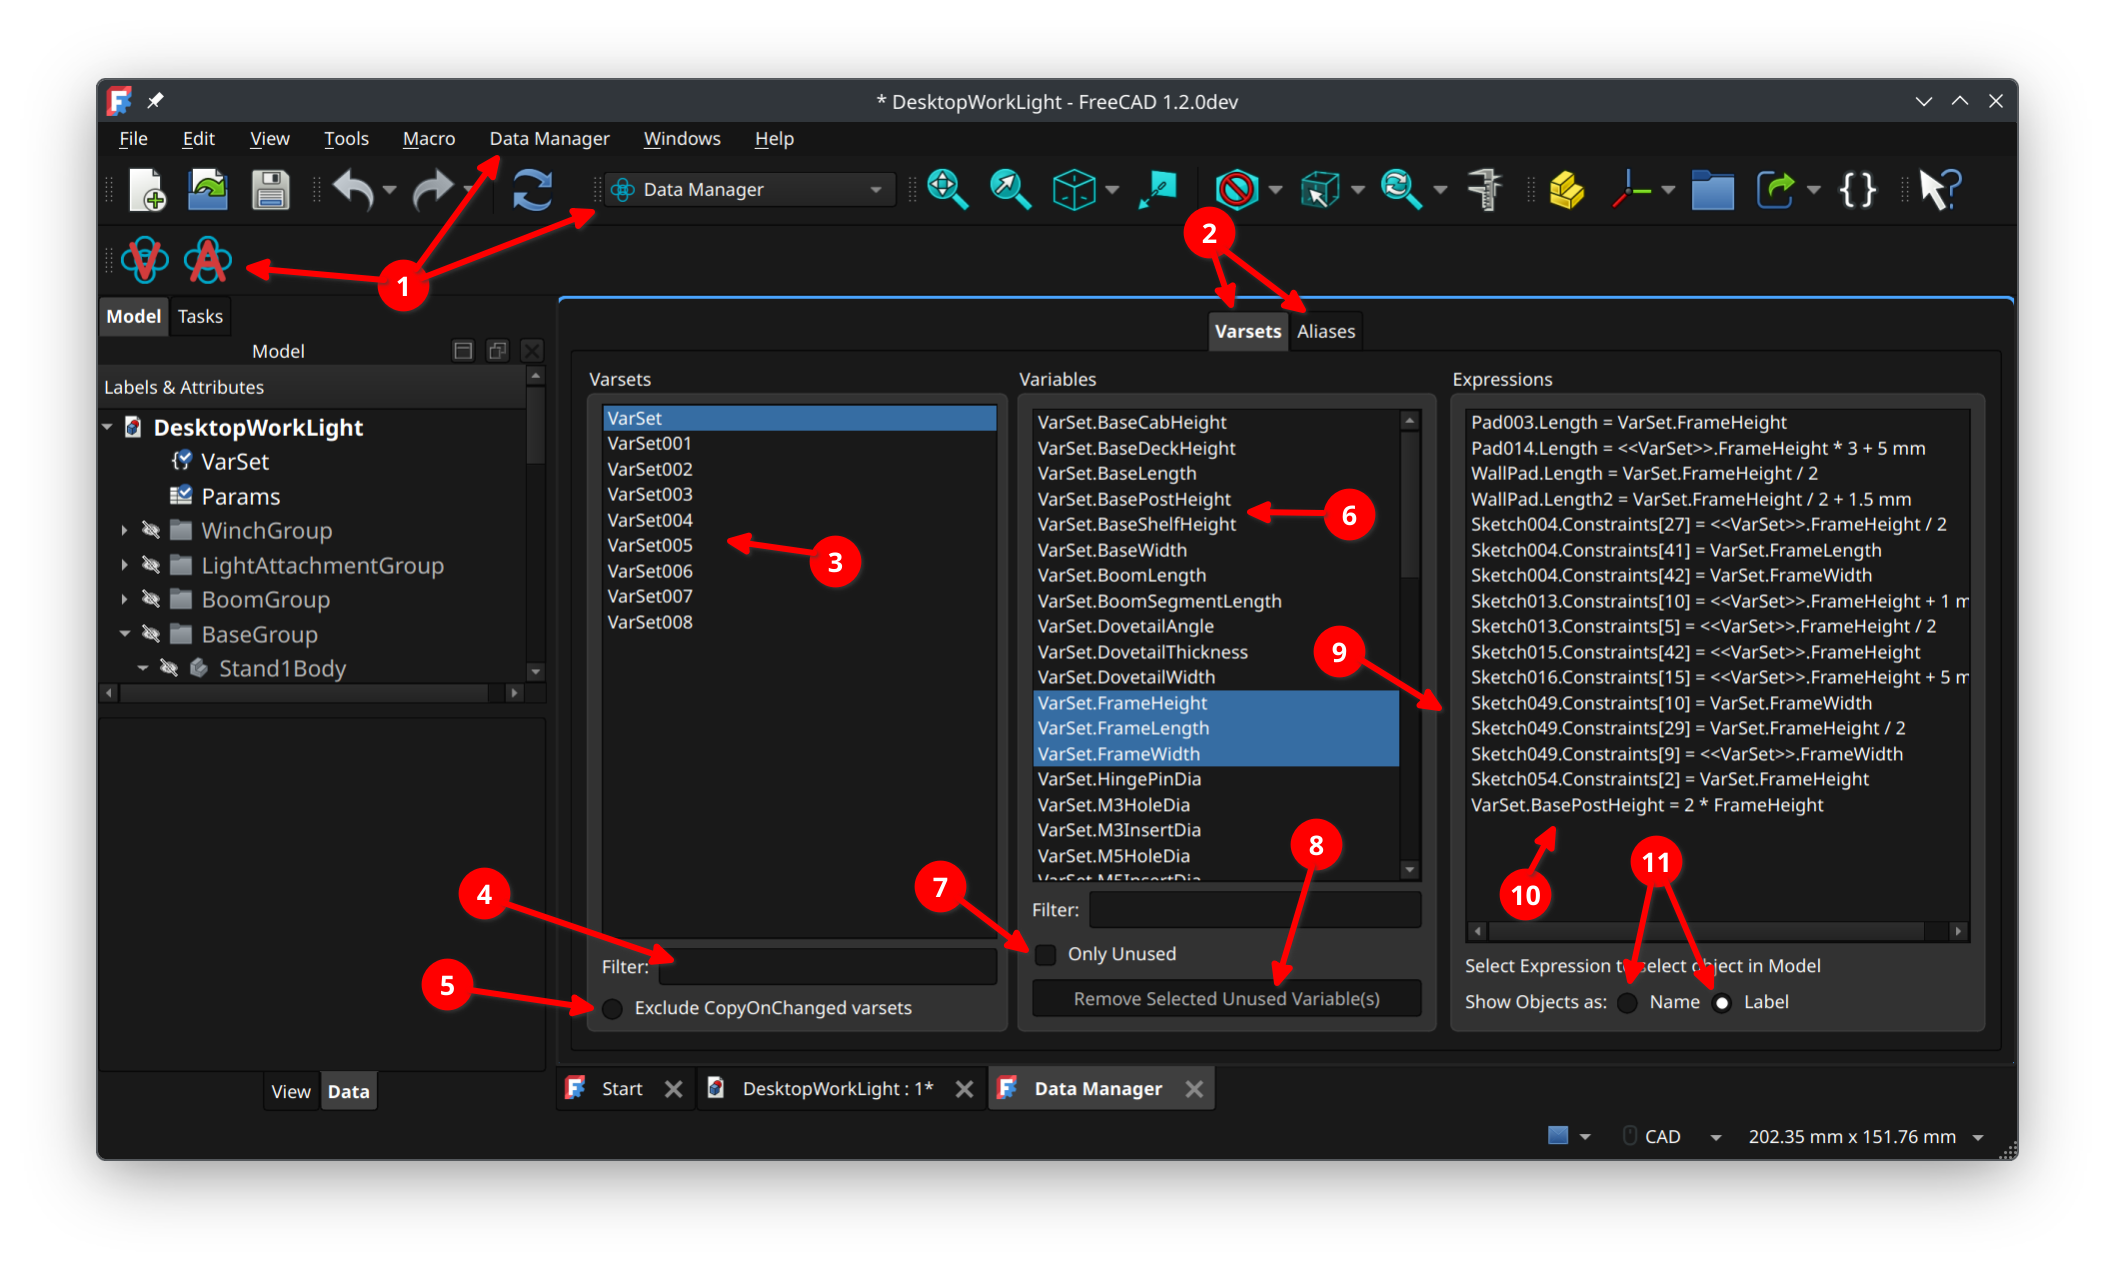
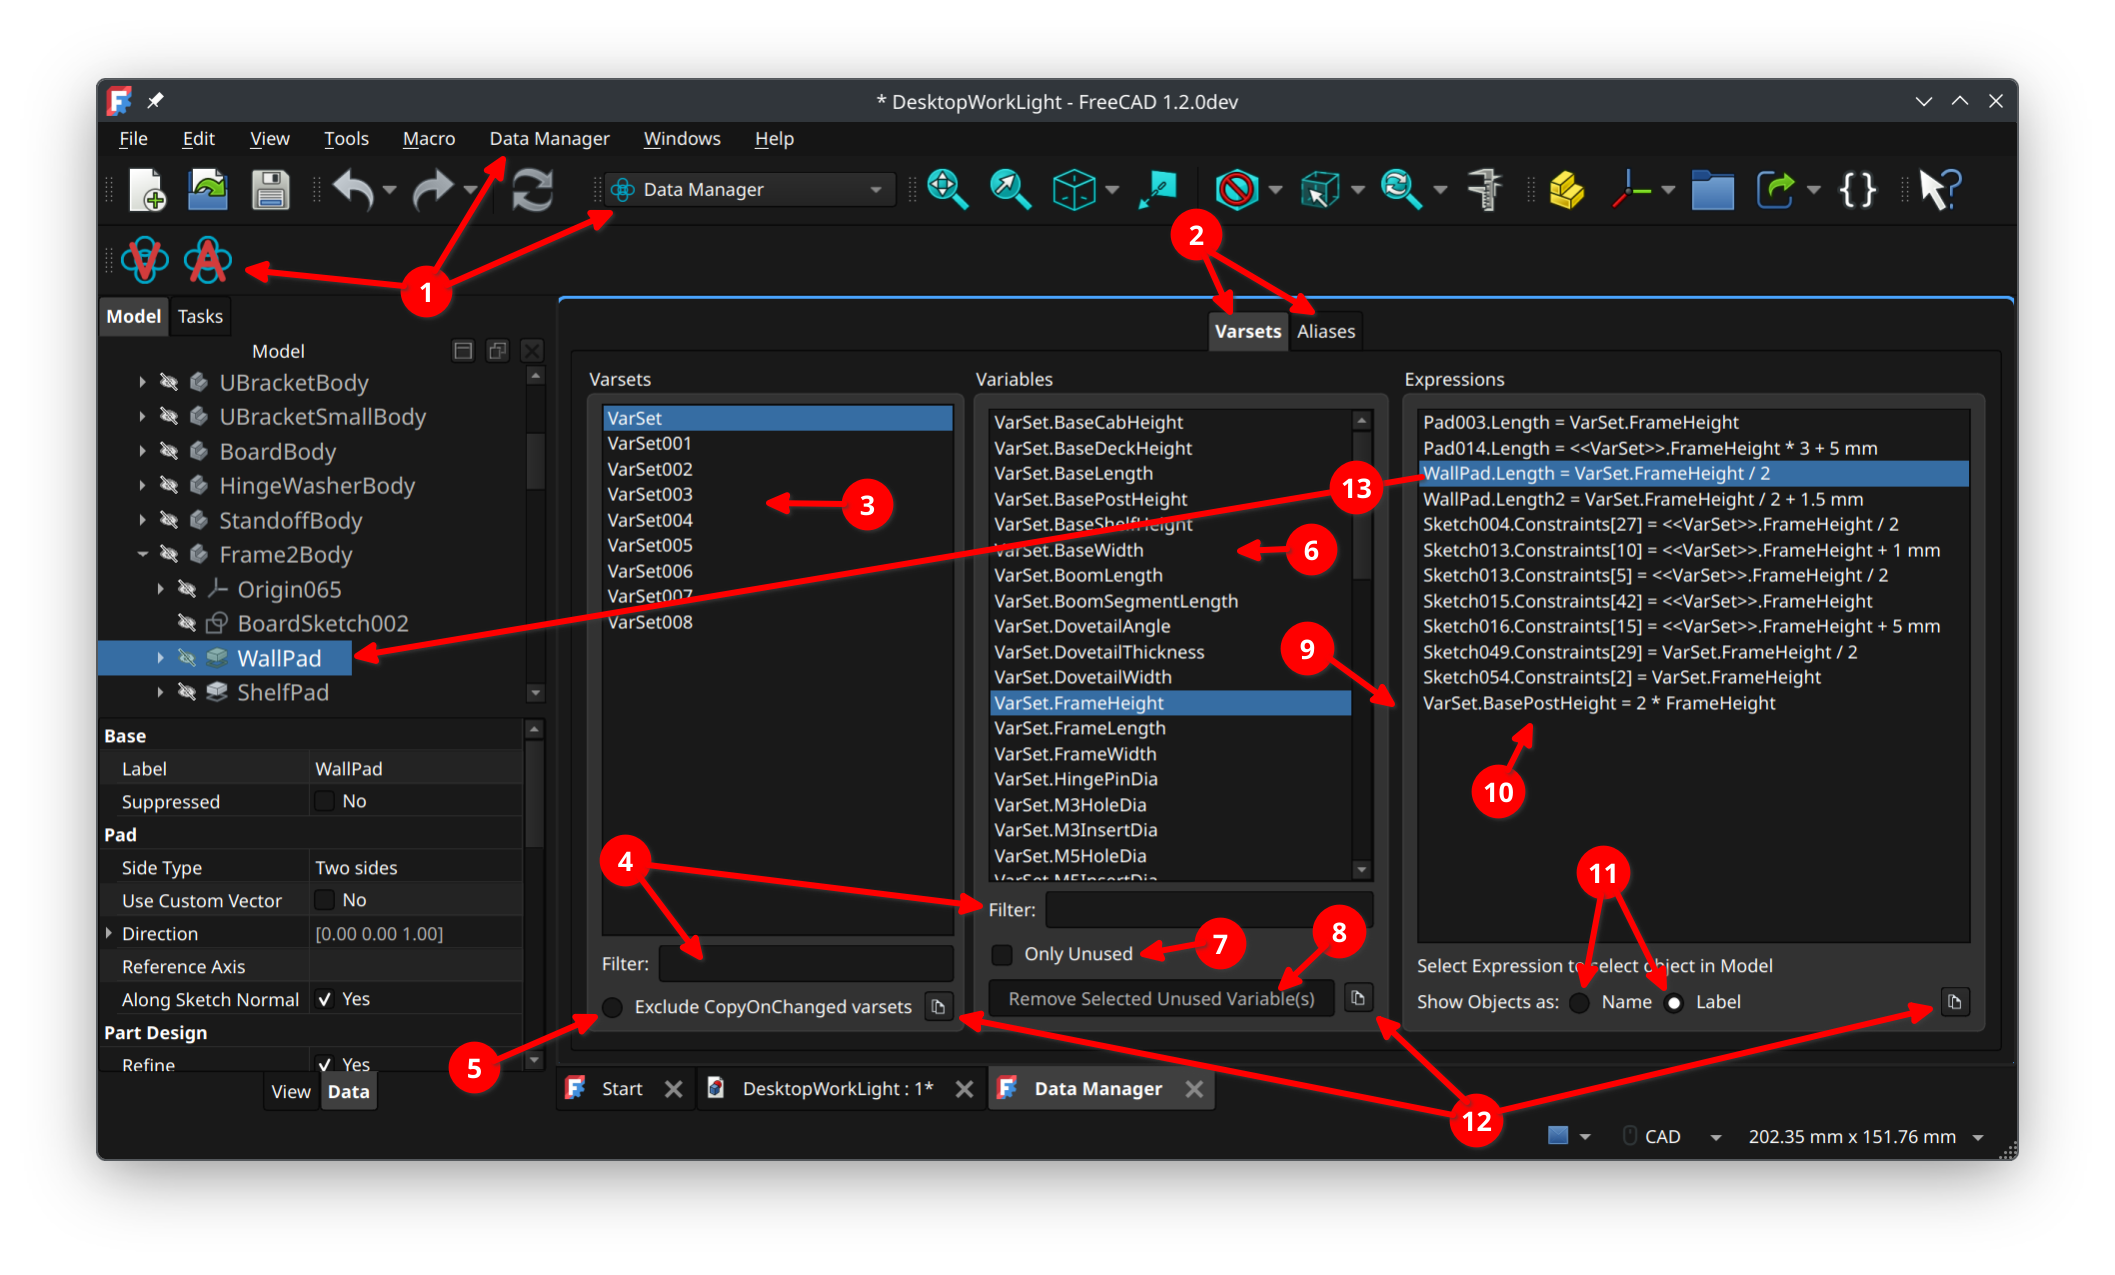
Docs: refresh annotated screenshot labels

diff --git a/docs/user-guide.md b/docs/user-guide.md
@@ -20,13 +20,14 @@ Annotated UI legend:
 1. Available VarSets
 1. VarSets filter
 1. Exclude CopyOnChanged varsets checkbox
-1. Copy selection button (copies selected items from the adjacent list)
 1. Variables list
 1. Only Unused checkbox
 1. Remove Selected Unused Variables button
 1. Splitter (resizable pane divider)
 1. Expressions list
 1. Show Objects as: Name/Label radio buttons
+1. Copy Selection Buttons
+1. Shows selected expression selects object in model view
 
 ## Opening the DataManager panel
 
@@ -82,6 +83,8 @@ Each list pane includes a copy button (icon-only).
 - For multi-selection lists, each selected item is copied on its own line.
 - The copy button is enabled only when the list has focus and at least one item is selected.
 
+See the annotated screenshot above (12).
+
 ### “Exclude Copy-on-Change” / clone filtering
 
 Both tabs include an option to hide objects created by FreeCAD’s copy-on-change mechanism.
@@ -122,6 +125,8 @@ At the bottom of each expressions pane, the UI indicates:
 When you click an expression entry in the list, the workbench will attempt to select the referenced object in the FreeCAD model.
 
 Tip: If you don’t see anything selected, the expression may reference a property or sub-element that can’t be selected directly, or the object may no longer exist.
+
+See the annotated screenshot above (13).
 
 ## Varsets tab
 

diff --git a/README.md b/README.md
@@ -29,6 +29,8 @@ Annotated UI legend:
 1. Splitter (resizable pane divider)
 1. Expressions list
 1. Show Objects as: Name/Label radio buttons
+1. Copy Selection Buttons
+1. Shows selected expression selects object in model view
 
 ### VarSets tab
 
